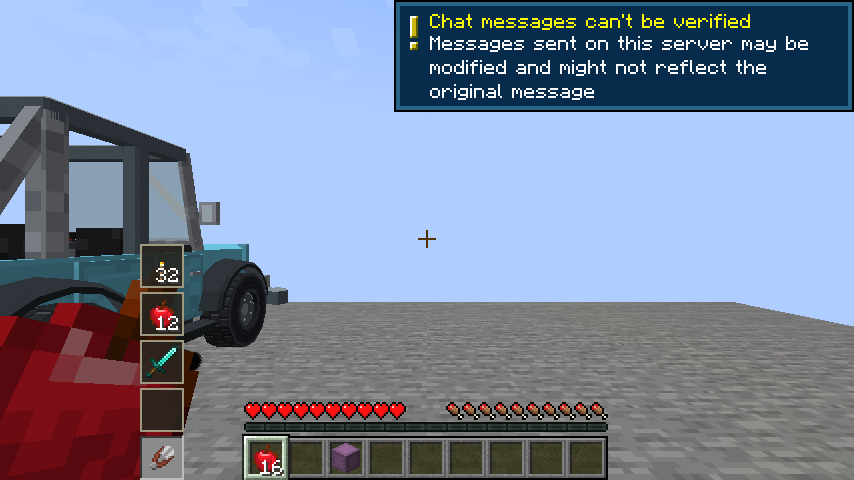
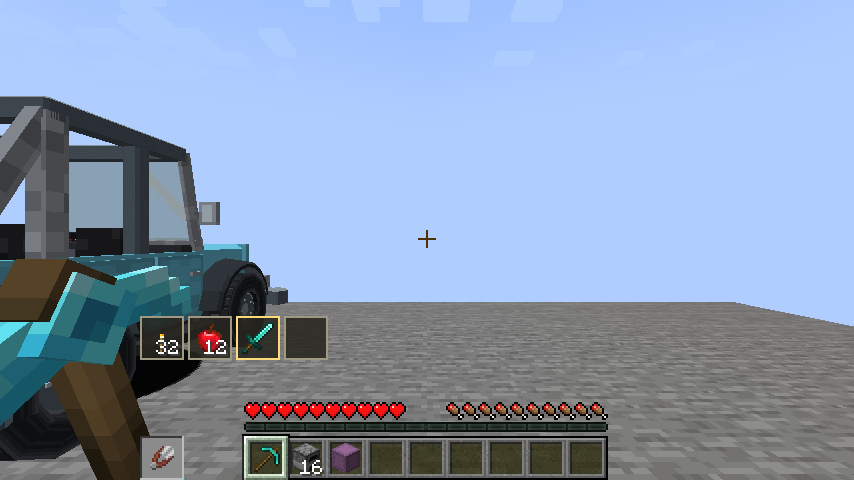
Keep the backpack gear bar horizontal at compact GUI sizes

Changed region(s): [[0.4567, 0.0, 1.0, 0.25], [0.0, 0.5, 0.3958, 1.0], [0.274, 0.9062, 0.3958, 1.0]]

diff --git a/src/main/java/com/chunkworks/backpacksplus/client/GearHud.java b/src/main/java/com/chunkworks/backpacksplus/client/GearHud.java
@@ -7,7 +7,7 @@ import net.minecraft.client.Minecraft;
 import net.minecraft.client.gui.GuiGraphics;
 import net.minecraft.world.entity.HumanoidArm;
 
-/** Persistent mounts beside the companion Quick Slot. RI: hotbar/offhand/attack indicator retain their vanilla cells. */
+/** Persistent horizontal mounts. RI: every mount shares one y coordinate; vanilla HUD cells retain their space. */
 final class GearHud {
     private GearHud() {}
     static void render(GuiGraphics g, DeltaTracker delta) {
@@ -20,10 +20,13 @@ final class GearHud {
         int base=g.guiWidth()/2+(right ? distance : -distance-22), bottom=g.guiHeight()-22;
         int edge=right ? base+24+mounts*24 : base-mounts*24;
         boolean compact=edge<3 || edge>g.guiWidth()-3;
+        // When the side margin is too narrow, keep the mount row horizontal and align
+        // its outer end with Quick Slot. Draw above the space reserved by status icons.
+        int rowY=compact ? g.guiHeight()-Math.max(82,Math.max(mc.gui.leftHeight,mc.gui.rightHeight)+26) : bottom;
         if (GearClient.QUICK_SLOT && GearClient.browsing() && GearClient.selection()==0) border(g,base,bottom,0xffffda7a);
         for (int i=0;i<mounts;i++) {
-            int x=compact ? base : base+(right ? 1 : -1)*(i+1)*24;
-            int y=compact ? bottom-(i+1)*24 : bottom;
+            int x=compact ? base+(right ? i-mounts+1 : mounts-1-i)*24 : base+(right ? 1 : -1)*(i+1)*24;
+            int y=rowY;
             boolean selected=GearClient.browsing() && GearClient.selection()==i+(GearClient.QUICK_SLOT ? 1 : 0);
             g.fill(x,y,x+22,y+22,0xdd27251f); border(g,x,y,selected ? 0xffffda7a : 0xffa09982);
             var item=view.mount(i);

diff --git a/src/gametest/java/com/chunkworks/backpacksplus/gametest/NetworkClient.java b/src/gametest/java/com/chunkworks/backpacksplus/gametest/NetworkClient.java
@@ -52,6 +52,7 @@ public final class NetworkClient {
                     case "close" -> { if (mc.screen!=null) mc.screen.onClose(); }
                     case "menuClick" -> mc.gameMode.handleInventoryMouseClick(mc.player.containerMenu.containerId,c.get("slot").getAsInt(),c.get("button").getAsInt(),ClickType.valueOf(c.get("type").getAsString()),mc.player);
                     case "hud" -> {
+                        if (c.has("width")) GLFW.glfwSetWindowSize(mc.getWindow().getWindow(),c.get("width").getAsInt(),c.get("height").getAsInt());
                         mc.options.mainHand().set(HumanoidArm.valueOf(c.get("arm").getAsString()));
                         mc.options.attackIndicator().set(AttackIndicatorStatus.valueOf(c.get("attack").getAsString()));
                         mc.options.guiScale().set(c.get("scale").getAsInt()); mc.resizeDisplay(); mc.options.broadcastOptions();
@@ -74,6 +75,7 @@ public final class NetworkClient {
         JsonObject state=new JsonObject(); state.addProperty("seq",completed); state.addProperty("tick",ticks); state.addProperty("error",error);
         state.addProperty("connected",mc.player!=null); state.addProperty("focused",mc.isWindowActive());
         state.addProperty("browsing",GearClient.browsing()); state.addProperty("selection",GearClient.selection());
+        state.addProperty("guiWidth",mc.getWindow().getGuiScaledWidth()); state.addProperty("guiHeight",mc.getWindow().getGuiScaledHeight());
         JsonObject players=new JsonObject();
         if (mc.level!=null) for (var player : mc.level.players()) {
             JsonObject p=NetworkFiles.player(player); var view=GearClient.snapshot(player.getUUID());

diff --git a/src/main/java/com/chunkworks/backpacksplus/client/GearClientSetup.java b/src/main/java/com/chunkworks/backpacksplus/client/GearClientSetup.java
@@ -22,7 +22,7 @@ public final class GearClientSetup {
     static final KeyMapping BROWSE=new KeyMapping("key.backpacksplus.gear",KeyConflictContext.IN_GAME,
             InputConstants.Type.KEYSYM,GLFW.GLFW_KEY_G,"key.categories.backpacksplus");
     @SubscribeEvent public static void keys(RegisterKeyMappingsEvent event) { event.register(BROWSE); }
-    @SubscribeEvent public static void layers(RegisterGuiLayersEvent event) { event.registerAbove(VanillaGuiLayers.HOTBAR,BackpacksPlus.id("gear"),GearHud::render); }
+    @SubscribeEvent public static void layers(RegisterGuiLayersEvent event) { event.registerAbove(VanillaGuiLayers.AIR_LEVEL,BackpacksPlus.id("gear"),GearHud::render); }
     @SubscribeEvent public static void setup(FMLClientSetupEvent event) {
         event.enqueueWork(() -> GearProtocol.receive(GearClient::receive,GearClient::receive));
     }

diff --git a/devtools/verification/first-build.md b/devtools/verification/first-build.md
@@ -42,10 +42,15 @@ retained contents; it does not instantiate arbitrary mod block entities to class
 
 [Inventory menu](storage-menu.png), [right-hand compact bar](gear-right.png), and
 [left-hand compact bar](gear-left.png) were inspected from real-client screenshots.
-The cells fit and mirror without overlapping hotbar/health/hunger. Both screenshots
-use the compact arrangement at the client's effective GUI size; the horizontal full-width
-layout still needs a larger-window check. The inventory drawing is a working layout,
-not finished backpack artwork. The held bag's missing-model fallback is visible.
+The gear images were refreshed after Rusty's D-0011 correction: the original in-game
+vertical fallback was a mistake. Mounts now stay in one horizontal row, matching the
+browser design. At 854×480 (427×240 GUI), the complete row lifts above the status icons;
+at 1280×720 (640×360 GUI), it fits beside Quick Slot. Both arms were visually inspected:
+[wide right](gear-wide-right.png), [wide left](gear-wide-left.png). The row clears the
+hotbar, health/hunger and reserved hotbar attack-indicator space in all four views.
+G selection highlights were visible during capture. The correction's build also passed
+all 6 JUnit and 19 GameTests. The inventory drawing is a working layout, not finished
+backpack artwork. The held bag's missing-model fallback is still visible in the menu.
 
 The reused profiles include Refined Tools 3.0, Curios, SB/Core, Vanilla Wheels, Trailblazer
 and Modefite, with Luminance bundled by Wheels. Stowed is absent from these isolated
@@ -61,7 +66,7 @@ No compatibility adapter, animation preview or shader validation is claimed yet.
 ## Next test gates
 
 Third-person worn model and animated gear drawing/opening; both skins and all poses;
-full-width HUD and remaining G/H/Controlify conflicts; Curios routing and visibility;
+remaining G/H/Controlify conflicts and unusually tall status overlays; Curios routing and visibility;
 death/keepInventory/vanishing/travel and server restart; optional-mod absence after client
 integration; pack-specific nested-container formats; mounted/Quick Slot light and shaders;
 lossless legacy migration with overflow recovery. Production changes stay held.

diff --git a/knowledge/decisions/D-0011.md b/knowledge/decisions/D-0011.md
@@ -1,0 +1,17 @@
+# D-0011: Keep the gear bar horizontal at every supported GUI size
+
+Date: 2026-09-17. Status: accepted correction from Rusty.
+
+Rusty pointed out that the first in-game capture showed a vertical bar, contrary to the
+chosen horizontal design. The browser prototype already kept the mounts in a horizontal
+row when compact; the first game implementation incorrectly made a column.
+
+Mount slots must always share one horizontal row. When there is enough room, that row
+continues outward from Quick Slot beside the hotbar. When the side margin cannot hold
+the row, align its outer end with Quick Slot and lift the entire row above status icons.
+Mirror this arrangement with the main arm. Keep the original Quick Slot at its established
+location and retain existing H/G behavior. Do not introduce a vertical fallback.
+
+Use NeoForge's actual reserved health/armor/food/air heights for compact clearance;
+inspect small and wide real-client views. This corrects presentation only and does not
+change inventory, payloads, capacities, animation scope or the release hold.

diff --git a/knowledge/PROJECT.md b/knowledge/PROJECT.md
@@ -15,6 +15,8 @@ gear bar (D-0009). Release remains HELD. No remote, tag, push or live pack chang
 - Persistent gear bar beside the distinct original Quick Slot. Hold G, scroll, release
   to swap directly with the selected hotbar item. H remains original Quick Slot only,
   yielding to driving controls. Mount swaps never route through or displace Quick Slot.
+- The bar stays horizontal, including at compact GUI sizes (D-0011). If it cannot fit
+  beside Quick Slot, lift the complete mount row above the status icons, not into a column.
 - An incompatible old hand item enters ordinary storage only if the whole stack fits;
   otherwise refuse the exchange. Current implementation uses normal item stack limits.
 - No nested portable storage. Ordinary utility blocks including furnaces are permitted

diff --git a/README.md b/README.md
@@ -23,6 +23,9 @@ Slot only**. Mount swaps leave it untouched. An incompatible old hand item enter
 storage only when it fits completely; otherwise neither item moves. Focus loss or a bag/
 hotbar change cancels browsing. Holding and releasing without scrolling does nothing.
 
+The mounts always form a horizontal row. On smaller screens, the row sits above the
+status icons with its outer end aligned to Quick Slot; it never becomes a vertical column.
+
 Development items: `/give @s backpacksplus:basic_backpack`, with `reinforced_backpack`
 and `expedition_backpack` as the other IDs in that namespace. Recipes await the materials
 review. This build does not migrate legacy data; keep SB and Stowed in existing worlds.

diff --git a/knowledge/design/persistent-gear-bar.md b/knowledge/design/persistent-gear-bar.md
@@ -3,6 +3,8 @@
 Update: D-0009 authorizes implementation after this study. The first functional build
 implements the direct-swap/storage-fallback behavior below; actual client evidence and
 remaining layout/animation gates are in `devtools/verification/first-build.md`.
+After Rusty's D-0011 correction, the game also keeps compact mounts horizontal, matching
+this browser study. The first in-game vertical fallback was an implementation mistake.
 The text below retains the context of the original design study.
 
 The [interactive preview](../../devtools/interface-preview/index.html) shows the D-0008

diff --git a/knowledge/decisions/README.md b/knowledge/decisions/README.md
@@ -10,3 +10,4 @@
 - [D-0008](D-0008.md): Persistent gear bar; backpack mounts act as independent quick slots with direct release-G swaps.
 - [D-0009](D-0009.md): Implementation authorized; early real-game third-person animation review and Fresh Animations compatibility.
 - [D-0010](D-0010.md): Permit utility blocks while preventing nested portable storage.
+- [D-0011](D-0011.md): Horizontal gear row at every GUI size; correct the unintended vertical fallback.
